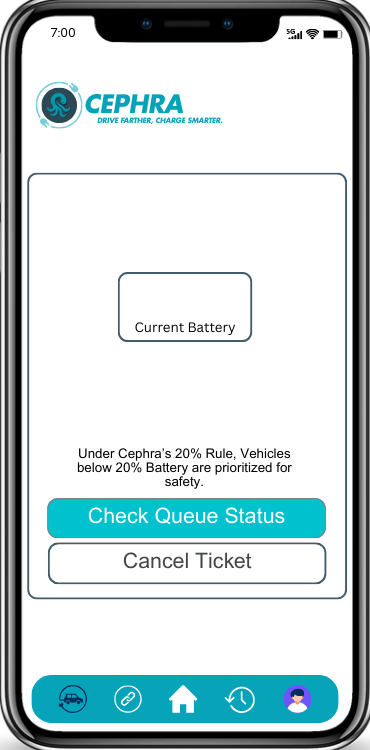
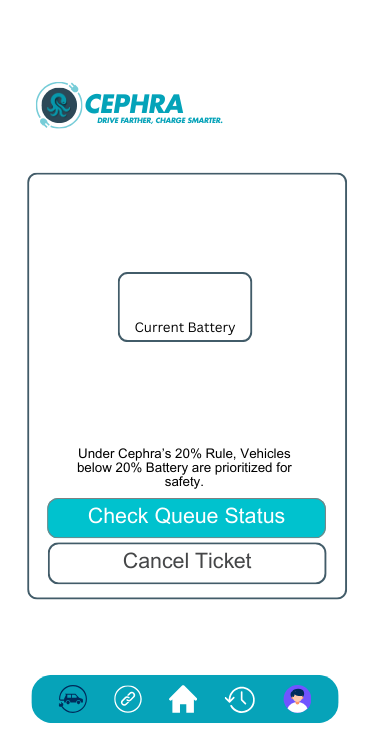
"Design layout"

Changed region(s): [[0.0, 0.0, 1.0, 1.0]]

diff --git a/src/main/java/cephra/Phone/Wallet.java b/src/main/java/cephra/Phone/Wallet.java
@@ -36,6 +36,7 @@ public class Wallet extends javax.swing.JPanel {
         HideBalance = new javax.swing.JButton();
         Latestranscat = new javax.swing.JPanel();
         historybutton1 = new javax.swing.JButton();
+        bckToHome = new javax.swing.JButton();
         jLabel1 = new javax.swing.JLabel();
 
         setLayout(null);
@@ -112,7 +113,7 @@ public class Wallet extends javax.swing.JPanel {
             }
         });
         add(HideBalance);
-        HideBalance.setBounds(270, 190, 70, 60);
+        HideBalance.setBounds(250, 190, 90, 90);
 
         Latestranscat.setOpaque(false);
         add(Latestranscat);
@@ -129,6 +130,16 @@ public class Wallet extends javax.swing.JPanel {
         });
         add(historybutton1);
         historybutton1.setBounds(160, 320, 50, 40);
+
+        bckToHome.setBorderPainted(false);
+        bckToHome.setContentAreaFilled(false);
+        bckToHome.addActionListener(new java.awt.event.ActionListener() {
+            public void actionPerformed(java.awt.event.ActionEvent evt) {
+                bckToHomeActionPerformed(evt);
+            }
+        });
+        add(bckToHome);
+        bckToHome.setBounds(170, 680, 30, 40);
 
         jLabel1.setIcon(new javax.swing.ImageIcon(getClass().getResource("/cephra/Cephra Images/Wallet.png"))); // NOI18N
         add(jLabel1);
@@ -421,6 +432,21 @@ public class Wallet extends javax.swing.JPanel {
         });
     }//GEN-LAST:event_TopupbtnActionPerformed
 
+    private void bckToHomeActionPerformed(java.awt.event.ActionEvent evt) {//GEN-FIRST:event_bckToHomeActionPerformed
+        SwingUtilities.invokeLater(new Runnable() {
+            public void run() {
+                java.awt.Window[] windows = java.awt.Window.getWindows();
+                for (java.awt.Window window : windows) {
+                    if (window instanceof cephra.Frame.Phone) {
+                        cephra.Frame.Phone phoneFrame = (cephra.Frame.Phone) window;
+                        phoneFrame.switchPanel(new cephra.Phone.Home());
+                        break;
+                    }
+                }
+            }
+        });
+    }//GEN-LAST:event_bckToHomeActionPerformed
+
    
 
     // Variables declaration - do not modify//GEN-BEGIN:variables
@@ -428,6 +454,7 @@ public class Wallet extends javax.swing.JPanel {
     private javax.swing.JButton HideBalance;
     private javax.swing.JPanel Latestranscat;
     private javax.swing.JButton Topupbtn;
+    private javax.swing.JButton bckToHome;
     private javax.swing.JButton charge;
     private javax.swing.JButton historybutton;
     private javax.swing.JButton historybutton1;

diff --git a/src/main/java/cephra/Phone/phonehistory.java b/src/main/java/cephra/Phone/phonehistory.java
@@ -58,7 +58,7 @@ scrollPane.getVerticalScrollBar().setPreferredSize(new Dimension(0, 0));
         if (historyScrollPane == null) {
             historyScrollPane = new JScrollPane(historyPanel);
             historyScrollPane.setBorder(null);
-            historyScrollPane.setBounds(50, 150, 290, 480);
+            historyScrollPane.setBounds(50, 150, 280, 480);
             add(historyScrollPane);
         } else {
             // Just update the viewport with the new history panel
@@ -444,7 +444,7 @@ scrollPane.getVerticalScrollBar().setPreferredSize(new Dimension(0, 0));
         historyScrollPane.setViewportView(historyPanel);
 
         add(historyScrollPane);
-        historyScrollPane.setBounds(30, 150, 320, 520);
+        historyScrollPane.setBounds(40, 150, 285, 520);
 
         profilebutton.setBorder(null);
         profilebutton.setBorderPainted(false);
@@ -456,7 +456,7 @@ scrollPane.getVerticalScrollBar().setPreferredSize(new Dimension(0, 0));
             }
         });
         add(profilebutton);
-        profilebutton.setBounds(280, 680, 40, 40);
+        profilebutton.setBounds(260, 680, 40, 40);
 
         charge.setBorder(null);
         charge.setBorderPainted(false);
@@ -468,7 +468,7 @@ scrollPane.getVerticalScrollBar().setPreferredSize(new Dimension(0, 0));
             }
         });
         add(charge);
-        charge.setBounds(50, 680, 50, 50);
+        charge.setBounds(30, 680, 50, 50);
 
         homebutton.setBorder(null);
         homebutton.setBorderPainted(false);
@@ -480,7 +480,7 @@ scrollPane.getVerticalScrollBar().setPreferredSize(new Dimension(0, 0));
             }
         });
         add(homebutton);
-        homebutton.setBounds(180, 680, 60, 40);
+        homebutton.setBounds(150, 680, 40, 40);
 
         linkbutton.setBorder(null);
         linkbutton.setBorderPainted(false);
@@ -492,11 +492,11 @@ scrollPane.getVerticalScrollBar().setPreferredSize(new Dimension(0, 0));
             }
         });
         add(linkbutton);
-        linkbutton.setBounds(110, 680, 60, 40);
+        linkbutton.setBounds(90, 680, 60, 40);
 
         jLabel1.setIcon(new javax.swing.ImageIcon(getClass().getResource("/cephra/Cephra Images/HISTORY - if none.png"))); // NOI18N
         add(jLabel1);
-        jLabel1.setBounds(0, 0, 370, 750);
+        jLabel1.setBounds(-15, 0, 398, 750);
     }// </editor-fold>//GEN-END:initComponents
 
     // CUSTOM CODE - DO NOT REMOVE - NetBeans will regenerate form code but this method should be preserved

diff --git a/src/main/java/cephra/Phone/QueueTicket.java b/src/main/java/cephra/Phone/QueueTicket.java
@@ -53,7 +53,7 @@ public class QueueTicket extends javax.swing.JPanel {
             }
         });
         add(checkstatus);
-        checkstatus.setBounds(50, 500, 280, 40);
+        checkstatus.setBounds(30, 500, 280, 40);
 
         charge.setBorder(null);
         charge.setBorderPainted(false);
@@ -65,7 +65,7 @@ public class QueueTicket extends javax.swing.JPanel {
             }
         });
         add(charge);
-        charge.setBounds(50, 680, 50, 40);
+        charge.setBounds(30, 680, 50, 40);
 
         linkbutton.setBorder(null);
         linkbutton.setBorderPainted(false);
@@ -77,7 +77,7 @@ public class QueueTicket extends javax.swing.JPanel {
             }
         });
         add(linkbutton);
-        linkbutton.setBounds(110, 680, 50, 40);
+        linkbutton.setBounds(90, 680, 50, 40);
 
         cancelticket.setBorder(null);
         cancelticket.setBorderPainted(false);
@@ -88,7 +88,7 @@ public class QueueTicket extends javax.swing.JPanel {
             }
         });
         add(cancelticket);
-        cancelticket.setBounds(50, 543, 280, 40);
+        cancelticket.setBounds(30, 543, 280, 40);
 
         historybutton.setBorder(null);
         historybutton.setBorderPainted(false);

diff --git a/src/main/java/cephra/Phone/WalletHistory.java b/src/main/java/cephra/Phone/WalletHistory.java
@@ -484,7 +484,7 @@ public class WalletHistory extends javax.swing.JPanel {
         historyScrollPane.setViewportView(historyPanel);
 
         add(historyScrollPane);
-        historyScrollPane.setBounds(20, 150, 300, 520);
+        historyScrollPane.setBounds(30, 150, 310, 520);
 
         profilebutton.setBorder(null);
         profilebutton.setBorderPainted(false);
